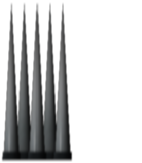
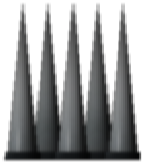
health bar above player.

diff --git a/UnanimousOverkillGame/Game1.cs b/UnanimousOverkillGame/Game1.cs
@@ -90,9 +90,7 @@ namespace UnanimousOverkillGame
 
             gameState = GameState.Menu;
             prevKeyCount = 0;
-            health = new Rectangle(GraphicsDevice.Viewport.Width-200, 150,100 , 25);
             intoxBox = new Rectangle(GraphicsDevice.Viewport.Width - 200, 200, 0, 25);
-            healthBox = health;
 
             base.Initialize();
         }
@@ -124,7 +122,9 @@ namespace UnanimousOverkillGame
             player.RoomManagerGet(roomManager);
             if(enableShaders)
                 lightingEffect = LoadEffect("Content/Test.mgfx");
-            
+            health = new Rectangle(player.X - (player.Rect.Width + 20 - player.Rect.Width) / 2, player.Y - 30, player.Rect.Width + 20, 5);
+            healthBox = health;
+
 
         }
 
@@ -195,12 +195,15 @@ namespace UnanimousOverkillGame
                             gameState = GameState.Paused;
                         }
                     }
-
+                    health.X =(int)( roomManager.WorldToScreen((player.X - (healthBox.Width - player.Rect.Width) / 2),(player.Y - 20)).X);
+                    health.Y = (int)(roomManager.WorldToScreen((player.X - (healthBox.Width - player.Rect.Width) / 2), (player.Y - 20)).Y);
+                    healthBox.X = (int)(roomManager.WorldToScreen((player.X - (healthBox.Width - player.Rect.Width) / 2), (player.Y - 20)).X);
+                    healthBox.Y = (int)(roomManager.WorldToScreen((player.X - (healthBox.Width - player.Rect.Width) / 2), (player.Y - 20)).Y);
                     //calls the player update method to get the logic for movement
                     player.Update(gameTime);
                     roomManager.Update(gameTime);
-                    
-                    health.Width = player.Health * 2;
+                    double value = ((double)(player.Health) / 100.0);
+                    health.Width = (int)(value * healthBox.Width);
                     intoxBox.Width = (int)(player.Intox * 1.5);
 
                     if(player.Y > 1500)
@@ -300,8 +303,10 @@ namespace UnanimousOverkillGame
 
                     spriteBatch.DrawString(font, "Bottles In Inventory:" + player.bottlesOnHand
                         , new Vector2(GraphicsDevice.Viewport.Width - 200, 230), Color.Yellow);
+                    spriteBatch.Draw(roomManager.spikesTexture, healthBox, Color.Red);
+                    spriteBatch.Draw(roomManager.spikesTexture,healthBox,new Rectangle(0,0,roomManager.spikesTexture.Width,roomManager.spikesTexture.Height),Color.Red,0,Vector2.Zero,SpriteEffects.FlipVertically,0);
+                    spriteBatch.Draw(roomManager.spikesTexture, healthBox, new Rectangle(0, 0, roomManager.spikesTexture.Width, roomManager.spikesTexture.Height), Color.Red, 0, Vector2.Zero, SpriteEffects.FlipHorizontally, 0);
 
-                    spriteBatch.Draw(roomManager.tileSet, healthBox, Color.White);
                     spriteBatch.Draw(roomManager.boundsTexture, health, Color.White);
                     spriteBatch.Draw(roomManager.boundsTexture, intoxBox, Color.White);
                     break;

diff --git a/UnanimousOverkillGame/Player.cs b/UnanimousOverkillGame/Player.cs
@@ -79,7 +79,7 @@ namespace UnanimousOverkillGame
             buttonInRange = null;
             doorInRange = null;
             intox = 0;
-            health = 50;
+            health = 100;
             holding = false;
             fps = 10.0;
             timePerFrame = 1.0 / fps;
@@ -114,6 +114,7 @@ namespace UnanimousOverkillGame
                 health = 0;
                 pState = PlayerState.Dead;
             }
+
             KeyboardState kbState = Keyboard.GetState();
 
             if (intox > 100)

diff --git a/UnanimousOverkillGame/HoppingEnemy.cs b/UnanimousOverkillGame/HoppingEnemy.cs
@@ -150,7 +150,7 @@ namespace UnanimousOverkillGame
 
         public void AttackPlayer()
         {
-            player.Health -= 5;
+            player.Health -= 10;
             player.AddForce(new Vector2((X < player.X) ? 200 : -200, 0));
             player.velocity = (new Vector2((X < player.X) ? 1000 : -1000, 0));
             player.Color = Color.Red;

diff --git a/UnanimousOverkillGame/Spikes.cs b/UnanimousOverkillGame/Spikes.cs
@@ -57,7 +57,7 @@ namespace UnanimousOverkillGame
         }
         public void AttackPlayer()
         {
-            player.Health -= 5;
+            player.Health -= 10;
             player.Color = Color.Red;
         }
 
